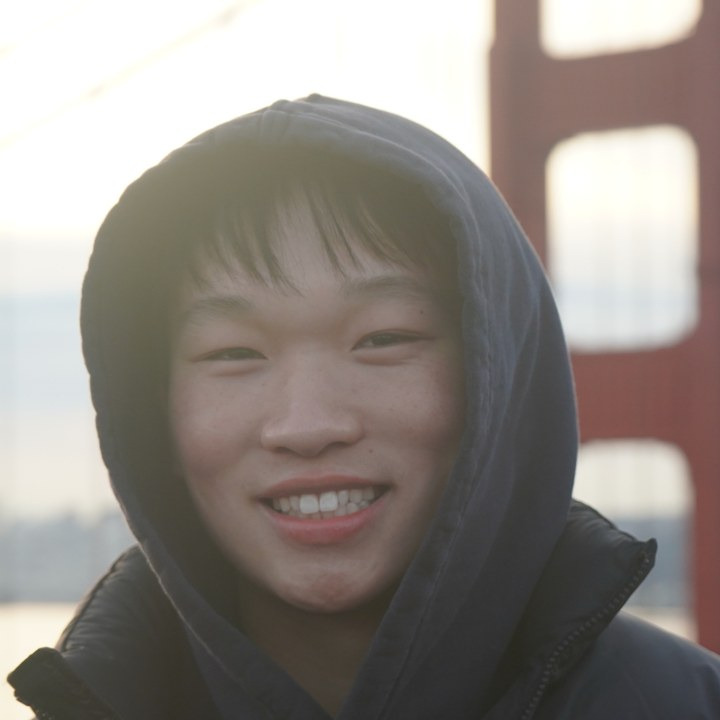
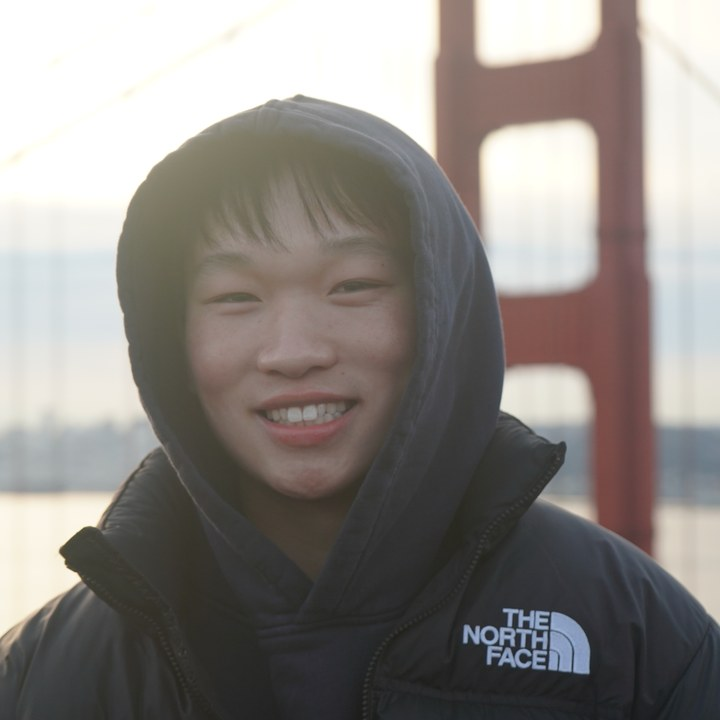
Widen the About portrait crop further
Use the full short edge of the source photo so more of Connor and the
bridge show in the circular frame.

diff --git a/src/pages/About.css b/src/pages/About.css
@@ -20,7 +20,7 @@
   border: 3px solid var(--page-light-border);
   box-shadow: 0 12px 32px var(--page-light-shadow);
   object-fit: cover;
-  object-position: 50% 38%;
+  object-position: 48% 40%;
   margin: 0 auto 1.35rem;
   display: block;
 }
